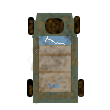
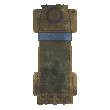
update

diff --git a/code/engine/strategic_map.py b/code/engine/strategic_map.py
@@ -494,14 +494,18 @@ class StrategicMap(object):
         '''load a campaign from file and initialize strategic map'''
         self.save_file_name=save_file_name
 
+        # sqlite connection
+        conn = sqlite3.connect(self.save_file_name)
+        cursor = conn.cursor()
+
+
         # create map squares
         self.create_map_squares()
         
+        # -- load map square data --
         for map_square in self.map_squares:
             table_name='map_'+map_square.name
-            conn = sqlite3.connect(self.save_file_name)
-            cursor = conn.cursor()
-
+            
             select_all_sql = f"SELECT * FROM {table_name};"
             cursor.execute(select_all_sql)
             rows = cursor.fetchall()
@@ -522,14 +526,48 @@ class StrategicMap(object):
                 # Add the MapObject instance to the list
                 map_square.map_objects.append(map_object)
 
-            # Close the connection
-            conn.close()
-
-
         # update map data
         self.update_map_data()
 
-        # load banks and bank accounts
+        # -- load bank data --
+        self.banks={}
+        cursor.execute("SELECT * FROM banks;")
+        rows=cursor.fetchall()
+        for row in rows:
+            (id,name,currencies_accepted,commodities_accepted
+             ,bank_internal_account,account_increment,exchange_markup
+             ,factions_accepted) = row
+            
+            bank=AIBank()
+            bank.name=name
+            bank.currencies_accepted=currencies_accepted.split(',')
+            bank.commodities_accepted=commodities_accepted.split(',')
+            bank.factions_accepted=factions_accepted.split(',')
+            bank.exchange_markup=float(exchange_markup)
+            bank.accounts={}
+            self.banks[bank.name]=bank
+
+        # -- load bank account data --
+        cursor.execute("SELECT * FROM bank_accounts;")
+        rows=cursor.fetchall()
+        for row in rows:
+            (id,bank_name,account_number,holdings) = row
+            # convert the string back to a dictionary
+            holdings_dict={}
+            for data in holdings.split(','):
+                data=data.split(':')
+                holdings_dict[data[0]]=float(data[1])
+
+            self.banks[bank_name].accounts[int(account_number)]=holdings_dict
+        
+        # -- strategic ai data ---
+            
+
+        
+        # close sqlite connection
+        conn.close()
+
+
 
          
     #------------------------------------------------------------------------------
@@ -615,7 +653,7 @@ class StrategicMap(object):
         # by the time you get here the world is already unloaded.
 
         # one more save all
-        self.save_all_maps()
+        self.save_everything()
 
         print('----------------------')
         print('Good Bye!')
@@ -705,6 +743,12 @@ class StrategicMap(object):
         conn.close()
 
     #---------------------------------------------------------------------------
+    def save_everything(self):
+        '''save all the campaign things'''
+        self.save_all_maps()
+        self.save_banks()
+
+    #---------------------------------------------------------------------------
     def start_new_campaign(self):
         self.save_file_name=self.generate_save_filename()
 
@@ -732,8 +776,8 @@ class StrategicMap(object):
         # update map data
         self.update_map_data()
 
-        # save all maps
-        self.save_all_maps()   
+        # save everything
+        self.save_everything()
         
         # load specific map player is in 
 
@@ -761,7 +805,7 @@ class StrategicMap(object):
             self.update_map_data()
 
             # save everything
-            self.save_all_maps()
+            self.save_everything()
 
             # reset strategic menus
             self.strategic_menu.change_menu('start')

diff --git a/code/engine/world_menu.py b/code/engine/world_menu.py
@@ -376,7 +376,7 @@ class World_Menu(object):
             self.text_queue=[]
             self.text_queue.append('--Debug -> Spawn Menu -> Vehicles --')
             self.text_queue.append('1 - Kubelwagen ')
-            self.text_queue.append('2 - t34-85')
+            self.text_queue.append('2 - Kubelwagen Camo')
             self.text_queue.append('3 - Ju88 ')
             self.text_queue.append('4 - Dodge G505 Weapons Carrier ')
             self.text_queue.append('5 - sd_kfz_251 ')
@@ -387,7 +387,7 @@ class World_Menu(object):
             if key=='1':
                 engine.world_builder.spawn_object(self.world, [self.world.player.world_coords[0]+50,self.world.player.world_coords[1]],'kubelwagen',True)
             elif key=='2':
-                engine.world_builder.spawn_object(self.world, [self.world.player.world_coords[0]+50,self.world.player.world_coords[1]],'t34_85',True)
+                engine.world_builder.spawn_object(self.world, [self.world.player.world_coords[0]+50,self.world.player.world_coords[1]],'kubelwagen_camo',True)
             elif key=='3':
                 engine.world_builder.spawn_object(self.world, [self.world.player.world_coords[0]+50,self.world.player.world_coords[1]],'ju88',True)
             elif key=='4':

diff --git a/code/engine/world_builder.py b/code/engine/world_builder.py
@@ -2138,6 +2138,11 @@ def spawn_object(world,world_coords,OBJECT_TYPE, SPAWN):
         z.add_inventory(spawn_object(world,world_coords,'radio_feldfu_b',False))
         z.rotation_angle=float(random.randint(0,359))
 
+    elif OBJECT_TYPE=='kubelwagen_camo':
+        z=spawn_object(world,world_coords,'kubelwagen',False)
+        z.image_list=['kubelwagen_camo','kubelwagen_camo_destroyed_destroyed']
+        z.world_builder_identity='kubelwagen_camo'
+
     elif OBJECT_TYPE=='red_bicycle':
         # note second image is used for the wreck..
         z=WorldObject(world,['red_bicycle','red_bicycle'],AIVehicle)

diff --git a/code/ai/ai_bank.py b/code/ai/ai_bank.py
@@ -10,14 +10,12 @@ notes : a bank.
 #import built in modules
 
 #import custom packages
-from ai.ai_base import AIBase
-import twe.code.engine.global_finance
+import engine.global_finance
 
 #global variables
 
-class AIBank(AIBase):
-    def __init__(self, owner):
-        super().__init__(owner)
+class AIBank(object):
+    def __init__(self):
 
         # unique bank name
         self.name=''
